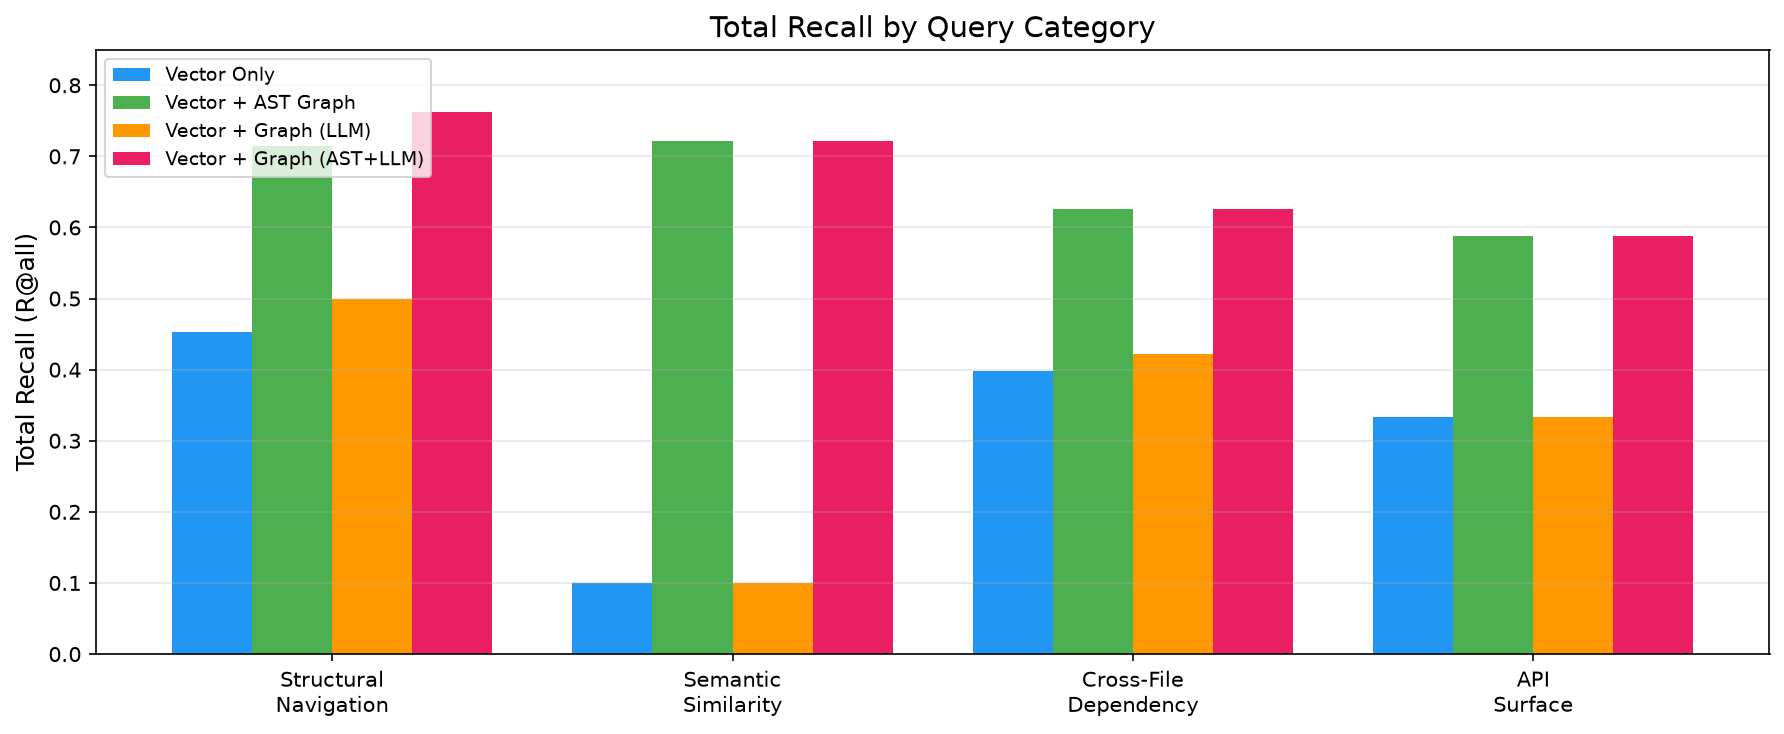
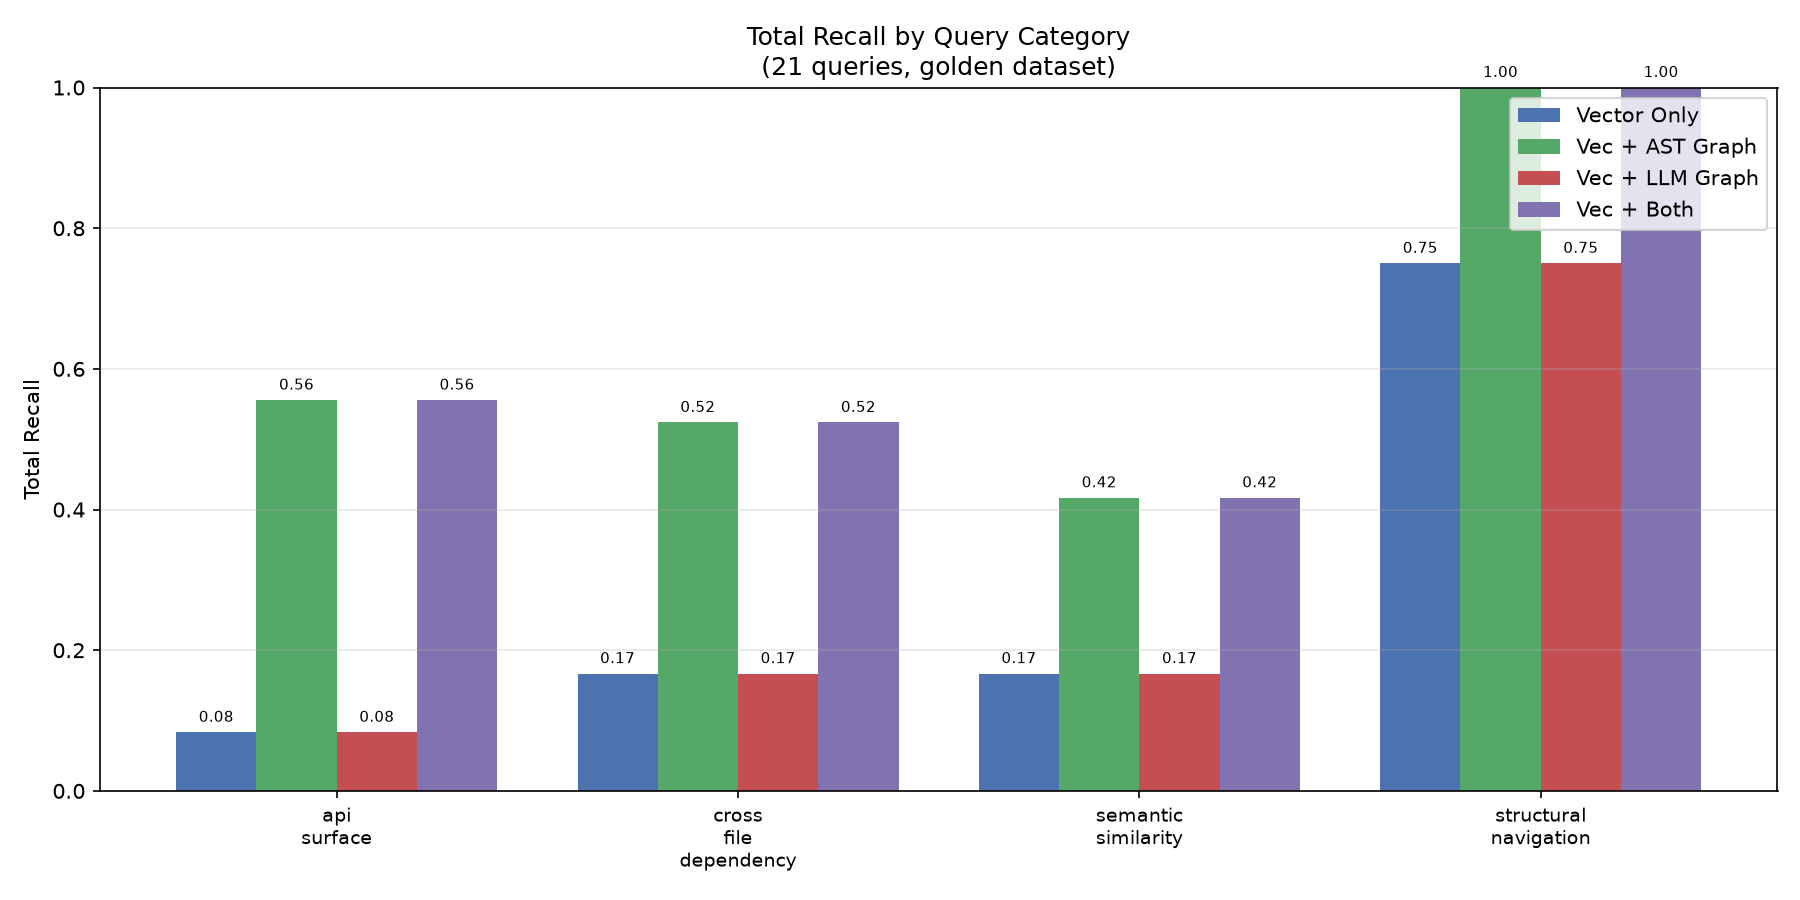
Update eval charts and insights with corrected results
Regenerated all eval charts from post-fix data (21 queries).
Updated LinkedIn post and README: graph is a pure recall expander
(total recall 19.8% → 54.8%) but doesn't improve top-k ranking.

diff --git a/docs/linkedin-post-graphrag.md b/docs/linkedin-post-graphrag.md
@@ -14,13 +14,15 @@ So I built a GraphRAG system: vector search finds the entry points, then graph e
 
 **The results that changed my assumptions:**
 
-Vector + AST graph found **77% more relevant symbols** than vector alone (10.8 vs 6.1 per query). But here's what I didn't expect:
+AST graph expansion nearly **tripled total recall** — from 19.8% to 54.8%. But it didn't improve top-k ranking at all. Recall@5, Recall@10, NDCG@10 were identical with or without the graph. Here's what that means:
 
-1. **LLM-extracted edges added zero value over AST edges.** I spent tokens having an LLM classify SIMILAR_TO / DEPENDS_ON relationships between symbols. The AST edges (CALLS, INHERITS, IMPORTS) already captured the useful structure. The semantic edges were either redundant or noise. This surprised me — I expected the LLM to find patterns the parser couldn't.
+1. **Graph is a pure recall expander, not a ranker.** It finds relevant symbols that embeddings miss entirely — but those symbols rank below the vector hits. The graph fills in the long tail, not the top of the list. This matters: if your application only looks at top-10 results, graph adds nothing. If it can use 20-30 results (like an agent with tool calls), graph is a significant win.
 
-2. **Graph without vector is useless.** Pure graph traversal without good seed nodes returns noise. The vector search IS the entry point — you need both, but in a specific order.
+2. **LLM-extracted edges added zero value.** I spent tokens having an LLM classify SIMILAR_TO / DEPENDS_ON relationships between symbols. The AST edges (CALLS, INHERITS, IMPORTS) already captured the useful structure. Zero graph nodes came from LLM edges. The parser gives you the graph for free.
 
-3. **The real win is cross-file discovery.** Authentication in httpx spans `_auth.py`, `_client.py`, and `_config.py`. Vector search finds one file. The graph finds all three. This is the problem GraphRAG actually solves for code: following dependencies across file boundaries.
+3. **Graph without vector is useless.** Pure graph traversal without good seed nodes returns noise. The vector search IS the entry point — you need both, but in a specific order.
+
+4. **The real win is cross-file discovery.** Authentication in httpx spans `_auth.py`, `_client.py`, and `_config.py`. Vector search finds one file. The graph finds all three. This is the problem GraphRAG actually solves for code: following dependencies across file boundaries.
 
 ![Ranking Quality by Retrieval Mode](../eval/ranking_quality.png)
 

diff --git a/README.md b/README.md
@@ -32,8 +32,9 @@ Traditional RAG retrieves code by semantic similarity — but misses structural 
 
 ### GraphRAG Evaluation
 
-- Vector + AST graph finds **77% more relevant symbols** than vector alone (10.8 vs 6.1 per query)
-- LLM-extracted edges added zero value over AST edges — CALLS/INHERITS did all the work
+- AST graph expansion nearly **triples total recall** (19.8% → 54.8%) — finds symbols embeddings miss entirely
+- Graph is a **pure recall expander**: top-k ranking (Recall@10, NDCG@10) is identical with or without graph — graph nodes rank below vector hits
+- LLM-extracted edges added zero value — CALLS/INHERITS edges from the AST parser did all the work
 - Graph without vector entry points is useless — you need both, in sequence
 - Hop-decay scoring (0.8 per hop) prevents distant neighbors from diluting relevance
 
